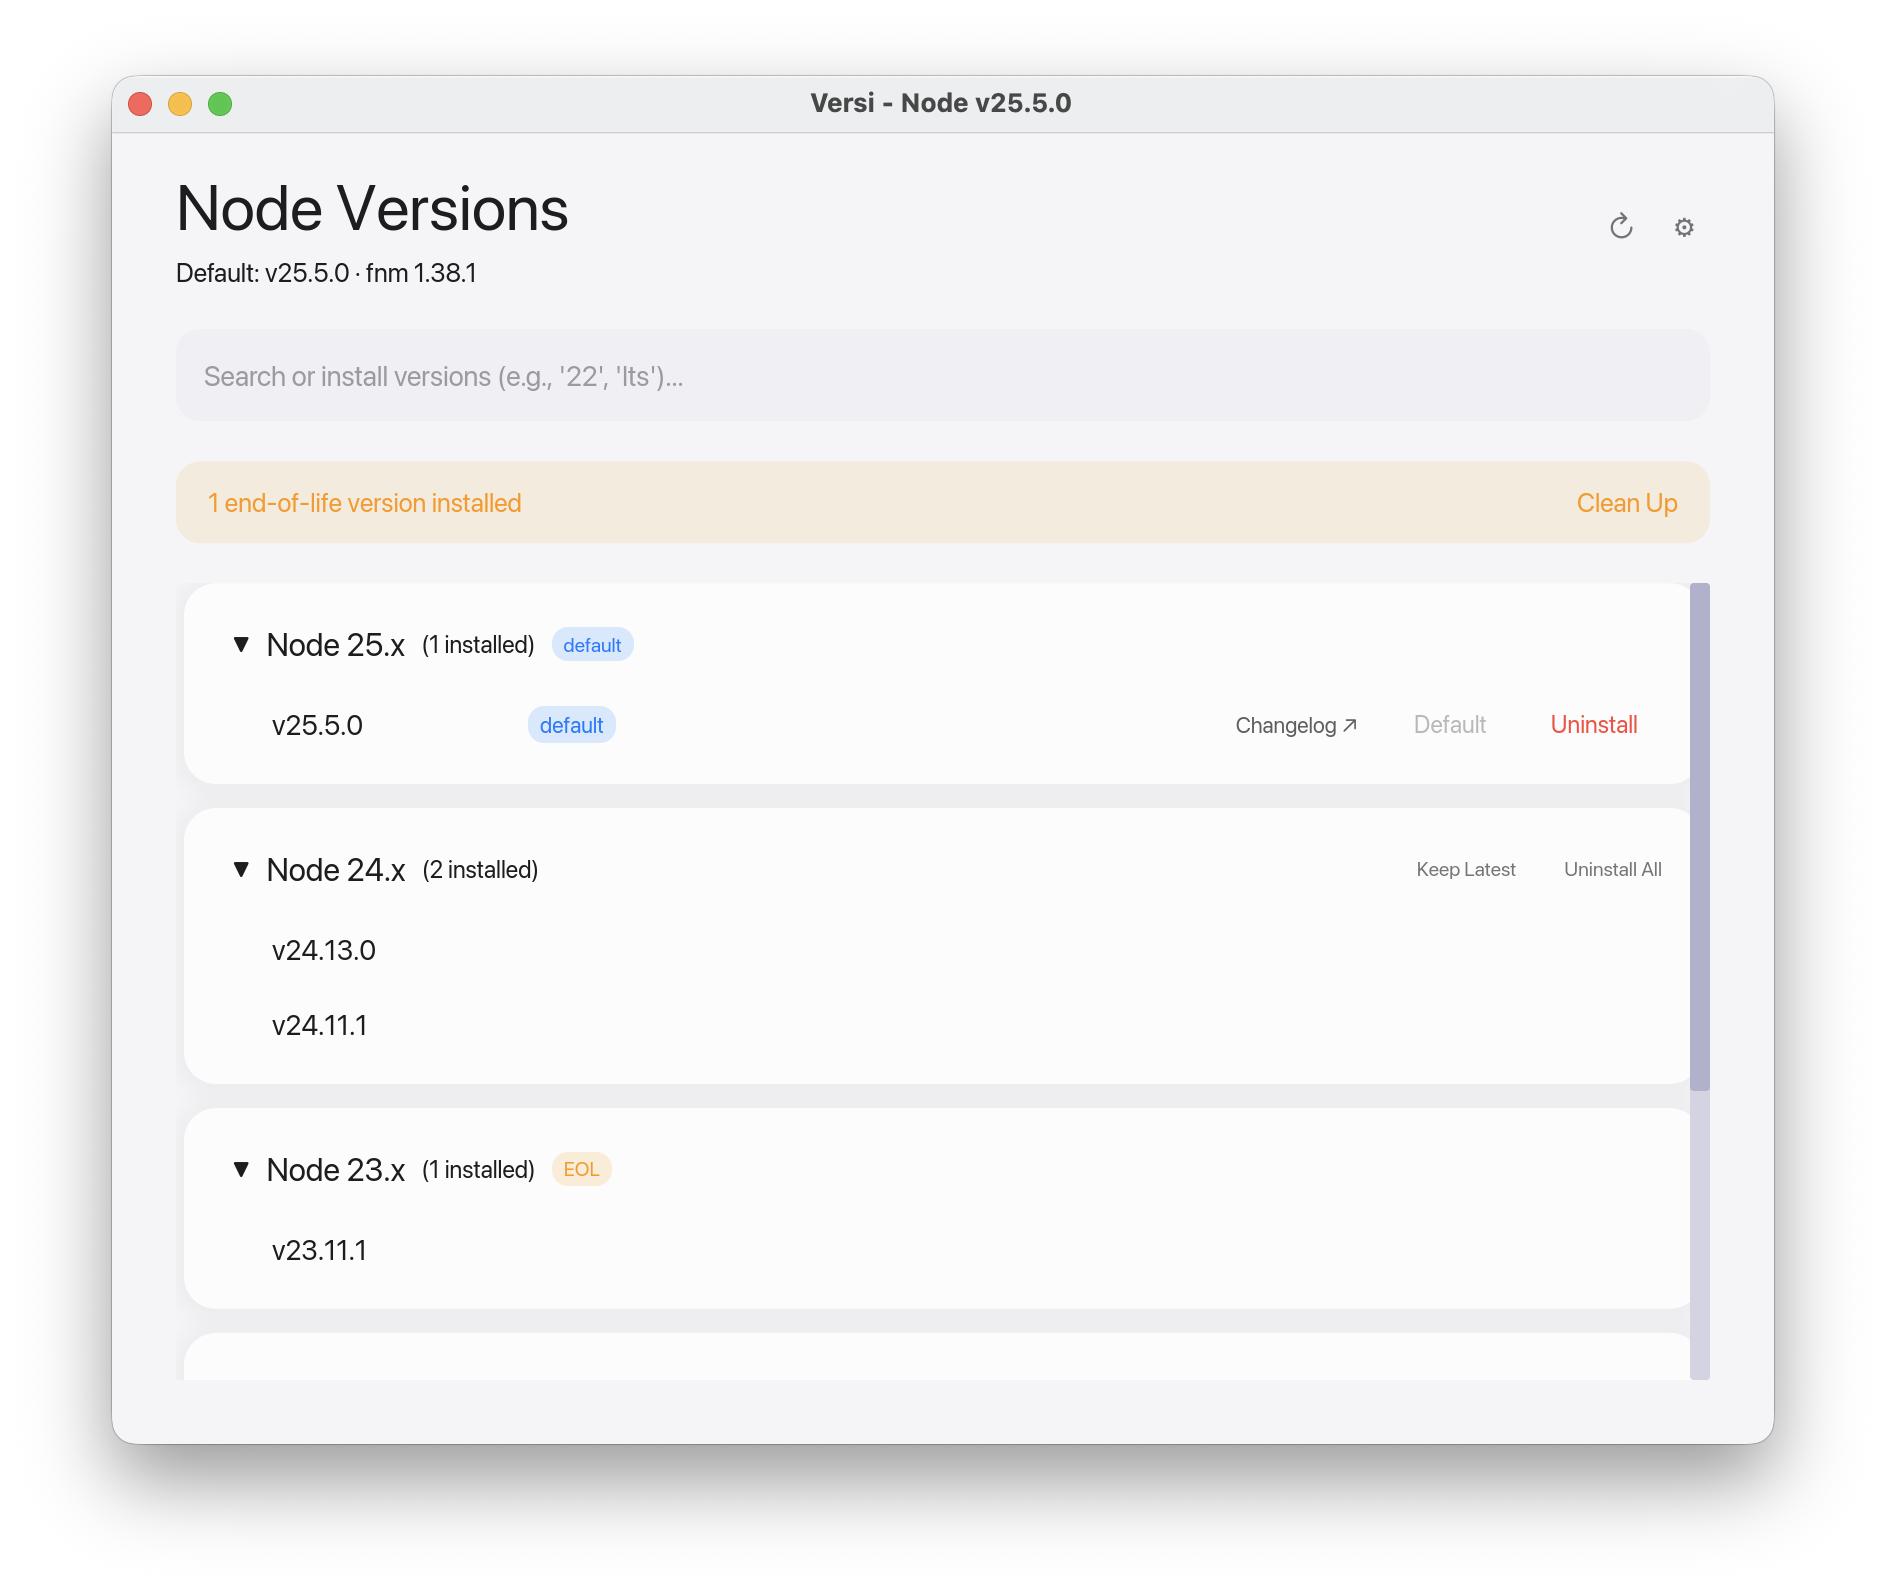
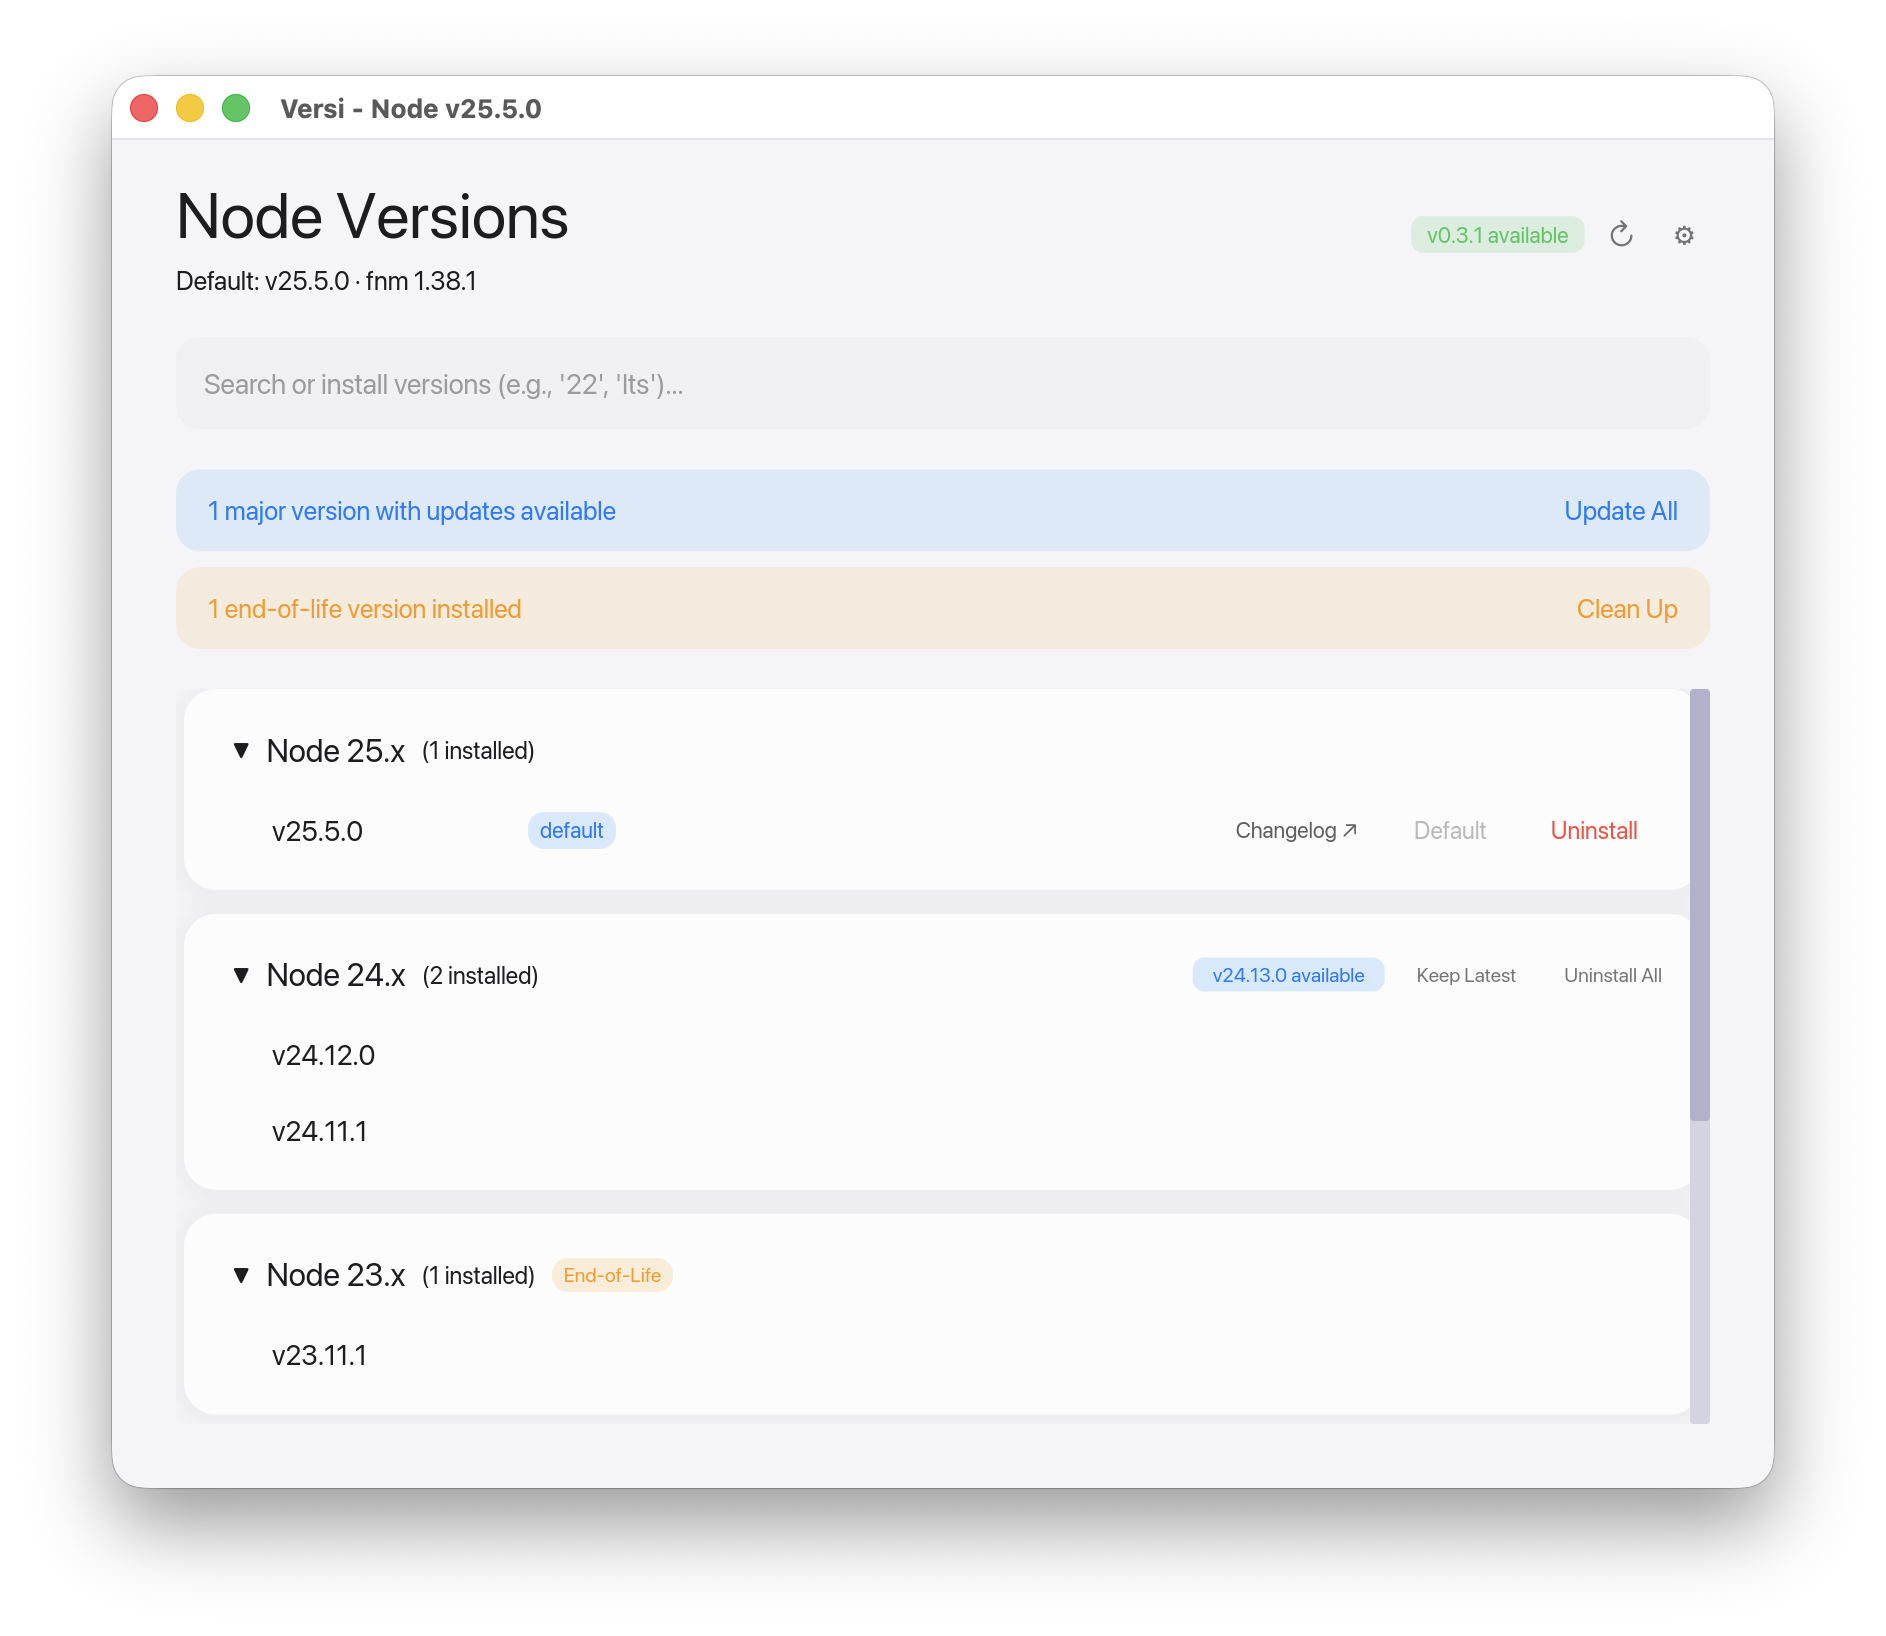
fix: improve badges and update screenshot

diff --git a/crates/versi/src/widgets/version_list.rs b/crates/versi/src/widgets/version_list.rs
@@ -263,13 +263,13 @@ fn version_group_view<'a>(
 
     if is_eol {
         header_row = header_row.push(
-            container(text("EOL").size(10))
+            container(text("End-of-Life").size(10))
                 .padding([2, 6])
                 .style(styles::badge_eol),
         );
     }
 
-    if has_default {
+    if has_default && !group.is_expanded {
         header_row = header_row.push(
             container(text("default").size(10))
                 .padding([2, 6])
@@ -294,7 +294,7 @@ fn version_group_view<'a>(
             button(container(text(format!("{} available", new_version)).size(10)).padding([2, 6]))
                 .on_press(Message::StartInstall(version_to_install))
                 .style(styles::update_badge_button)
-                .padding(0),
+                .padding([0, 4]),
         );
     }
 
@@ -538,7 +538,7 @@ fn available_version_row<'a>(
             container(Space::new())
         },
         if is_eol {
-            container(text("EOL").size(11))
+            container(text("End-of-Life").size(11))
                 .padding([2, 6])
                 .style(styles::badge_eol)
         } else {
